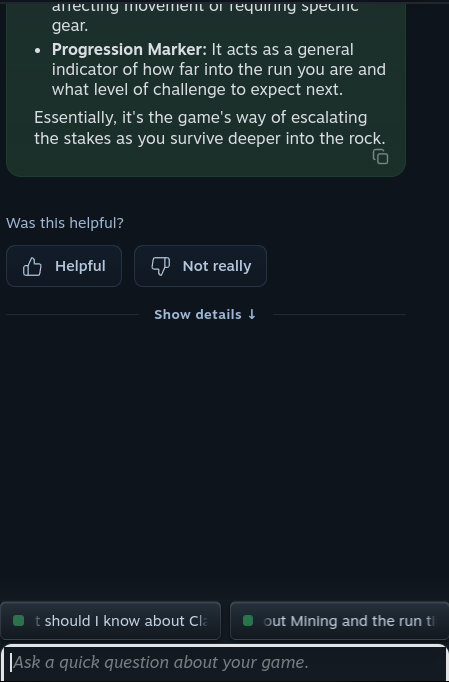
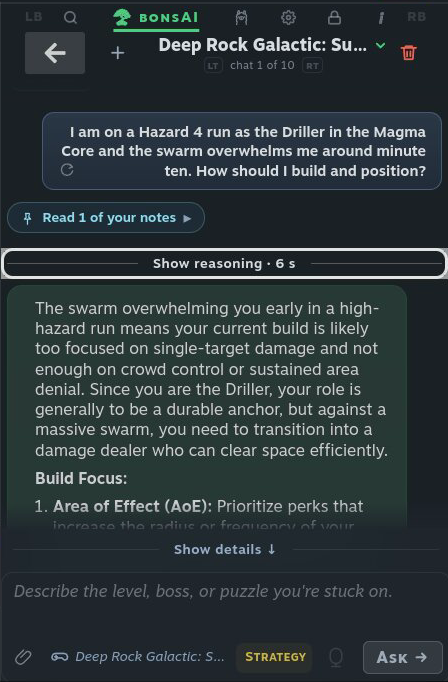
README: one-line feature list, a one-line contents, and a first-run clip for install
The maintainer's README tweaks of 2026-10-25:

- What it does: each fold is one line, the name in bold and a few words in
  italics, set inside <dl><dd> so the list sits 16px in from the headings and
  reads as the section's children. All folds start closed; the caption that
  repeated "filmed in real time" under every clip is cut to the two that differ.
- Contents: scripts/docs_toc.py gains INLINE_DOCS; the README's list is now one
  wrapping line of section links (16 lines became 1). Test added.
- The two top pictures cut off the question box: both were taken while Steam
  had scrolled the panel. top-answer is now a frame from the 2026-10-22 master
  with the whole panel; top-details is a fresh Deck screenshot with details
  open and the question box whole.
- Install: steps 2 and 3 become one "Set up the AI" step around a new clip of
  the first run (beta notice, Where should the AI run?, the PC option, Install
  Ollama, the box that turns on downloads). Filmed on the Deck's own screen with
  Steam's performance overlay off, real time with two pauses cut, the Deck's
  home-network address blurred. The old popup still showed the overlay over its
  title; it and the Ollama-tab still are no longer used and are removed.

verify.py --quick passed.

diff --git a/scripts/docs_toc.py b/scripts/docs_toc.py
@@ -22,6 +22,8 @@ How it works:
     3. `build_toc()` writes one list line per `##` and `###` heading between `TOC_START` and
        `TOC_END`. `apply_toc()` replaces the block if the markers exist, otherwise inserts it
        just before the first `##` heading, so a document's opening lines stay first.
+    4. A document in `INLINE_DOCS` gets one wrapping line of `##` links instead of a list, so
+       the README's front page reaches its first section sooner.
 
 Gotchas:
   - The list goes before the first `##`, never above the title or a document's opening text:
@@ -67,6 +69,12 @@ DOCS = [
     "docs/code-clarity.md",
 ]
 
+# Documents whose contents are one line of `##` links joined by dots: the README's list took 16
+# lines above its first section (the maintainer asked for a tighter one, 2026-10-25).
+INLINE_DOCS = {"README.md"}
+INLINE_TITLE = "**Contents:**"
+INLINE_SEPARATOR = " · "
+
 _HEADING_RE = re.compile(r"^(#{1,6})\s+(.*?)\s*#*\s*$")
 _FENCE_RE = re.compile(r"^\s*(```|~~~)")
 _LINK_RE = re.compile(r"!?\[([^\]]*)\]\([^)]*\)")
@@ -109,9 +117,10 @@ def headings(lines: list[str]) -> list[tuple[int, str]]:
     return found
 
 
-def build_toc(lines: list[str]) -> list[str]:
+def build_toc(lines: list[str], inline: bool = False) -> list[str]:
     seen: dict[str, int] = {}
     entries = []
+    links = []
     for level, text in headings(lines):
         base = slug(text)
         count = seen.get(base, 0)
@@ -122,15 +131,19 @@ def build_toc(lines: list[str]) -> list[str]:
             indent = "  " * (level - 2)
             label = plain_text(text).replace("[", "\\[").replace("]", "\\]")
             entries.append(f"{indent}- [{label}](#{anchor})")
+            if level == 2:
+                links.append(f"[{label}](#{anchor})")
     if not entries:
         return []
+    if inline:
+        return [TOC_START, f"{INLINE_TITLE} " + INLINE_SEPARATOR.join(links), TOC_END]
     return [TOC_START, TOC_TITLE, "", *entries, TOC_END]
 
 
-def apply_toc(text: str) -> str:
+def apply_toc(text: str, inline: bool = False) -> str:
     """The document with its contents list written or refreshed. Unchanged if it has no `##`."""
     lines = text.split("\n")
-    toc = build_toc(lines)
+    toc = build_toc(lines, inline)
     if TOC_START in (line.strip() for line in lines):
         start = next(i for i, line in enumerate(lines) if line.strip() == TOC_START)
         end = next(i for i in range(start, len(lines)) if lines[i].strip() == TOC_END)
@@ -163,7 +176,7 @@ def main(argv: list[str] | None = None) -> int:
         original = path.read_text(encoding="utf-8")
         newline = "\r\n" if "\r\n" in original else "\n"
         text = original.replace("\r\n", "\n")
-        updated = apply_toc(text)
+        updated = apply_toc(text, inline=Path(rel).as_posix() in INLINE_DOCS)
         if updated == text:
             continue
         if args.check:

diff --git a/tests/test_docs_toc.py b/tests/test_docs_toc.py
@@ -70,6 +70,15 @@ class DocsTocTests(unittest.TestCase):
     def test_document_without_sections_is_untouched(self):
         self.assertEqual(docs_toc.apply_toc("# Only a title\n\nText.\n"), "# Only a title\n\nText.\n")
 
+    def test_inline_style_is_one_line_of_sections(self):
+        out = docs_toc.apply_toc(DOC, inline=True)
+        block = out.split(docs_toc.TOC_START)[1].split(docs_toc.TOC_END)[0].strip()
+        self.assertEqual(
+            block, "**Contents:** [Getting started](#getting-started) · [Steps](#steps) · [Steps](#steps-1)"
+        )
+        self.assertEqual(docs_toc.apply_toc(out, inline=True), out)
+        self.assertIn("README.md", docs_toc.INLINE_DOCS)
+
     def test_every_listed_doc_exists(self):
         for rel in docs_toc.DOCS:
             self.assertTrue((ROOT / rel).exists(), rel)

diff --git a/README.md b/README.md
@@ -17,21 +17,7 @@ mid-game, ask how to beat a boss or why the game stutters and keep playing.
 </p>
 
 <!-- toc: written by scripts/docs_toc.py; do not hand-edit -->
-**Contents**
-
-- [Free, open and yours](#free-open-and-yours)
-- [What it does](#what-it-does)
-- [Before you start](#before-you-start)
-- [What you need](#what-you-need)
-- [Install](#install)
-  - [1. Add bonsAI to Decky](#1-add-bonsai-to-decky)
-  - [2. Allow downloads](#2-allow-downloads)
-  - [3. Choose where the AI runs](#3-choose-where-the-ai-runs)
-  - [4. Ask something](#4-ask-something)
-- [Getting help](#getting-help)
-- [Help build it](#help-build-it)
-- [License](#license)
-- [Buy me a beer](#buy-me-a-beer)
+**Contents:** [Free, open and yours](#free-open-and-yours) · [What it does](#what-it-does) · [Before you start](#before-you-start) · [What you need](#what-you-need) · [Install](#install) · [Getting help](#getting-help) · [Help build it](#help-build-it) · [License](#license) · [Buy me a beer](#buy-me-a-beer)
 <!-- /toc -->
 
 ## Free, open and yours
@@ -54,116 +40,101 @@ mid-game, ask how to beat a boss or why the game stutters and keep playing.
 - **Voice input**: the speech engine from **GitHub**, the tools to build it from **Ubuntu's servers**
   and the speech model from **Hugging Face**.
 
-Nothing downloads until you switch on **Internet downloads** on the Permissions tab, and bonsAI
-tells you where each download comes from before it starts. Links inside answers open only when you
+Nothing downloads until you switch on **Internet downloads**, on the Permissions tab or when bonsAI
+asks, and bonsAI tells you where each download comes from before it starts. Links inside answers open only when you
 tap them.
 
 ## What it does
 
-Every clip is filmed on a Steam Deck in real time. Most use an AI running on a PC on
-the home network; the wiki-notes clip uses the AI on the Deck itself.
+Every clip is filmed on a Steam Deck in real time, most with the AI on a PC at home.
 
-<details open>
-<summary><h3>Ask about the game you're playing</h3><br>bonsAI knows which game is running. Ask about a boss, a level or a puzzle.</summary>
+<dl><dd>
+
+<details>
+<summary><b>Ask about your game</b> — <i>it knows which game is running</i></summary>
 <br>
 
-Open the menu mid-game and type, or pick a suggestion chip; the game's name goes in with your
-question. Pick a mode on the question box: **Speed** for a quick reply, **Strategy** for coaching
-like a strategy guide, **Expert** for the most effort and detail. Switch on **Thinking** and you can
-watch the steps while it works. The answer streams in as it's written.
+Ask about a boss, a level or a puzzle, by typing or with a suggestion chip. Pick a mode: **Speed**
+for a quick reply, **Strategy** for coaching, **Expert** for the most detail. Switch on **Thinking**
+to watch the steps.
 
 <!-- VIDEO: upload recordings/readme-cuts/ask-about-your-game-deck-full.mp4. Replace the next line with the link github.com gives when the file is dropped into the editor. -->
 <img src="assets/readme/ask-about-your-game.png" alt="A new chat, the three modes, a question about the level, the thinking steps, the answer streaming in, Show reasoning, a kept note and a branch pick" width="560">
 
-*A new chat, the three modes, a question, the thinking steps, the answer streaming in, Show
-reasoning, a kept note and a branch pick. Filmed in real time, with the AI on a PC on the home
-network.*
-
 </details>
 
 <details>
-<summary><h3>Notes from the game's wiki</h3><br>Answers can use notes from community wikis, 38 games so far, and it works offline.</summary>
+<summary><b>Wiki notes</b> — <i>notes from fan wikis for 38 games, offline</i></summary>
 <br>
 
-The knowledge library is a one-time download. When an answer uses a note, it says where the note
-came from, and you can open the note under the answer.
+The knowledge library is a one-time download. An answer that uses a note says where it came from,
+and you can open the note under the answer.
 
 <img src="assets/readme/wiki-notes.webp" alt="A Speed answer from the AI on the Deck that uses a wiki note, then the note opening under the answer" width="360">
 
-*Filmed in real time, with the AI running on the Deck itself.*
+*With the AI on the Deck itself.*
 
 </details>
 
 <details>
-<summary><h3>Your own notes</h3><br>Tell bonsAI what matters to you and it remembers.</summary>
+<summary><b>Your own notes</b> — <i>tell it what matters and it remembers</i></summary>
 <br>
 
-Say something worth keeping, like "I do not want spoilers for later biomes", and a small card under
-the answer offers to keep it, for this game or for every game. Later answers say **Read 1 of your
-notes**; press that line to see your notes, switch one off or remove it.
+Say something like "no spoilers for later biomes" and a card offers to keep it, for this game or
+every game. Later answers say **Read 1 of your notes**; press it to see, switch off or remove a note.
 
 <!-- VIDEO: upload recordings/readme-cuts/your-notes-deck-full.mp4. Replace the next line with the link github.com gives when the file is dropped into the editor. -->
 <img src="assets/readme/your-notes.png" alt="Keeping a note from a question, a later answer that read it, then the Your notes box" width="560">
 
-*Filmed in real time, with the AI on a PC on the home network.*
-
 </details>
 
 <details>
-<summary><h3>Spoilers stay hidden until you ask</h3><br>In Strategy mode, anything that looks like a spoiler is covered.</summary>
+<summary><b>Spoiler covers</b> — <i>spoilers stay hidden until you open them</i></summary>
 <br>
 
-Press **A** on a cover to open it. This works on a best-effort basis and can miss things.
+In Strategy mode, anything that looks like a spoiler is covered; press **A** to open it. It's
+best-effort and can miss things.
 
 <img src="assets/readme/spoiler.webp" alt="A spoiler in a Strategy answer, covered until it is opened" width="360">
 
-*Filmed in real time, with the AI on a PC on the home network.*
-
 </details>
 
 <details>
-<summary><h3>"Where are you at?"</h3><br>Strategy can ask where you are in the game, then gives you a checklist of steps.</summary>
+<summary><b>Checklists</b> — <i>Strategy asks where you're at, then lists the steps</i></summary>
 <br>
 
-Tick off steps as you go. Your progress is saved on the Deck, for each game.
+Tick off steps as you go. Progress is saved for each game.
 
 <img src="assets/readme/strategy-checklist.webp" alt="Picking where you are in the game, then the checklist of steps arriving" width="360">
 
-*Filmed in real time, with the AI on a PC on the home network.*
-
 </details>
 
 <details>
-<summary><h3>Ask about a screenshot</h3><br>Take a screenshot and ask what's on screen, like a puzzle, a menu or an error message.</summary>
+<summary><b>Screenshots</b> — <i>ask about what's on screen</i></summary>
 <br>
 
-Press the paperclip on the question box and pick **Close menu & take screenshot**. Open the menu
-again, press the paperclip, pick **Attach recent screenshot**, choose the picture and ask. This
-needs a model that can see pictures; the starter model can.
+Press the paperclip and pick **Close menu & take screenshot**. Reopen the menu, press the paperclip
+again and pick **Attach recent screenshot**. This needs a model that can see pictures; the starter
+model can.
 
 <!-- VIDEO: upload recordings/readme-cuts/ask-about-a-screenshot-deck-full.mp4. Replace the next line with the link github.com gives when the file is dropped into the editor. -->
 <img src="assets/readme/ask-about-a-screenshot.png" alt="Taking a screenshot from the paperclip menu and asking what is on screen" width="560">
 
-*Filmed in real time, with the AI on a PC on the home network.*
-
 </details>
 
 <details>
-<summary><h3>Search your chats, settings and notes</h3><br>A Search tab to the left of Main finds things without any AI.</summary>
+<summary><b>Search</b> — <i>chats, notes and Steam settings, no AI needed</i></summary>
 <br>
 
-One find box looks through your chats, the game notes, your own notes and even Steam's own settings. Type
-"brightness" and jump straight to that Steam setting.
+The Search tab sits left of Main. Type "brightness" and jump straight to that Steam setting.
 
 <!-- VIDEO: upload recordings/readme-cuts/search-deck-full.mp4. Replace the next line with the link github.com gives when the file is dropped into the editor. -->
 <img src="assets/readme/search.png" alt="The Search tab: brightness finds a chat and the Steam settings, and opens one" width="560">
 
-*Filmed in real time.*
-
 </details>
 
 <details>
-<summary><h3>Close the menu, keep playing</h3><br>Close the menu while an answer is being written, and a popup tells you when it's ready.</summary>
+<summary><b>Keep playing</b> — <i>close the menu, a popup says when the answer's ready</i></summary>
 <br>
 
 The answer keeps going in the background. The **Reply ready** popup shows its first lines, and the
@@ -172,49 +143,45 @@ full answer waits in the chat.
 <!-- VIDEO: upload recordings/readme-cuts/reply-ready-deck-full.mp4. Replace the next line with the link github.com gives when the file is dropped into the editor. -->
 <img src="assets/readme/reply-ready.png" alt="Closing the menu while bonsAI answers, then the Reply ready popup arriving" width="560">
 
-*Filmed in real time, with the AI on a PC on the home network.*
-
 </details>
 
 <details>
-<summary><h3>Saved chats</h3><br>Keep up to ten chats and flip between them with the triggers.</summary>
+<summary><b>Saved chats</b> — <i>keep ten, flip between them with the triggers</i></summary>
 <br>
 
-At ten, **New chat** asks which chat to delete first, and nothing is deleted without the **Delete
-chat** box. When a chat gets long, bonsAI sums up the older part so it isn't forgotten, and you can
-ask it to sum up at any time.
+At ten, **New chat** asks which one to delete first. Long chats are summed up so the older part
+isn't forgotten.
 
 <!-- VIDEO: upload recordings/readme-cuts/saved-chats-deck-full.mp4. Replace the next line with the link github.com gives when the file is dropped into the editor. -->
 <img src="assets/readme/saved-chats.png" alt="Flipping between saved chats, then New chat asking which chat to delete" width="560">
 
-*Filmed in real time, with the AI on a PC on the home network.*
-
 </details>
 
 <details>
-<summary><h3>Talk instead of typing</h3><br>Press the mic button and talk. Your speech becomes text on the Deck itself.</summary>
+<summary><b>Talk instead of typing</b> — <i>speech becomes text on the Deck itself</i></summary>
 <br>
 
-Words appear as you talk. When you stop, bonsAI reads the whole recording once more and tidies the
-text, which takes a couple of seconds. The recording is deleted as soon as that's done.
+Words appear as you talk. When you stop, bonsAI tidies the text in a couple of seconds, then
+deletes the recording.
 
 <img src="assets/readme/talk.webp" alt="Pressing the mic button, the first word appearing, then the tidied text after Stop" width="360">
 
-*Filmed in real time, with a computer voice played into the Deck.*
+*With a computer voice played into the Deck.*
 
 </details>
 
 <details>
-<summary><h3>See how it answered</h3><br>Show details under any answer shows which model wrote it and which notes it used.</summary>
+<summary><b>Show details</b> — <i>which model answered and which notes it used</i></summary>
 <br>
 
-The **Session** tab inside it holds the chat's history and the **Sum up this chat** button.
+Press **Show details** under any answer. Its **Session** tab holds the chat's history and **Sum up
+this chat**.
 
 <img src="assets/readme/show-details.webp" alt="Opening Show details under an answer, then the Session tab" width="360">
 
-*Filmed in real time, with the AI on a PC on the home network.*
-
 </details>
+
+</dd></dl>
 
 There's more: characters that change the tone of replies and a choice of AI models. The
 **[user guide](docs/guide.md)** covers everything.
@@ -253,31 +220,24 @@ model. You install it from this page instead. It takes a few minutes.
 
 4. bonsAI now shows in the Decky list. Open it.
 
-### 2. Allow downloads
+### 2. Set up the AI
 
-Open the **Permissions** tab and switch on **Internet downloads**. Everything is off on a fresh
-install, so nothing downloads without your say-so.
+The first time bonsAI opens, two popups walk you through it:
 
-### 3. Choose where the AI runs
+<img src="assets/readme/first-run.webp" alt="The first time bonsAI opens: the beta notice, the Where should the AI run? popup with its PC option, then Install Ollama and the box that turns on downloads for the starter models" width="600">
 
-<img src="assets/readme/where-ai-runs.png" alt="The Where AI runs section of the Ollama tab" width="300">
-<img src="assets/readme/where-ai-runs-popup.png" alt="The first-run popup: Where should the AI run? with the Run AI on this Deck switch, Install Ollama and Not now" width="560">
+*Filmed in real time on a Steam Deck, with two pauses cut out.*
 
-The first time bonsAI opens, right after the beta notice, a popup titled **Where should the AI
-run?** asks this for you. **Run AI on this Deck** starts switched on. Pick **Install Ollama** to set
-it up on the Deck, or switch it off and type your PC's address instead. **Not now** closes the popup
-and changes nothing. You can do the same later on the **Ollama** tab:
+- **AI on the Deck** (works anywhere, slower in games): press **Install Ollama**, then **Turn on
+  and download**. That gets Ollama and the starter models, about 4.6 GB.
+- **AI on a PC at home** (much faster): install [Ollama](https://ollama.com/download) on the PC
+  first. In the popup, switch off **Run AI on this Deck**, type the PC's address (like
+  `192.168.1.20`) and press **Test connection**. The [guide](docs/guide.md#running-the-ai-on-a-pc)
+  shows how to let the PC accept the connection.
 
-- **On the Deck** (works anywhere, slower in games): make sure **Run AI on this Deck** is on, then
-  press **Install Ollama**. When it asks whether to add the starter set too, say yes. It brings the
-  answer model (gemma4:e2b-it-qat), the note-search model (nomic-embed-text) and the speech models
-  tiny.en and base.en, about 4.6 GB in all.
-- **On a PC on your home network** (much faster): install [Ollama](https://ollama.com/download) on
-  the PC and download a model there. Then type the PC's address into **PC address** on the Deck,
-  something like `192.168.1.20` (bonsAI adds Ollama's usual port), and press **Test connection**. The
-  [guide](docs/guide.md#running-the-ai-on-a-pc) shows how to let the PC accept the connection.
+Pressed **Not now**? The same choices are on the **Ollama** tab.
 
-### 4. Ask something
+### 3. Ask something
 
 Open the **Main** tab, pick a suggestion chip or type a question and press **Ask**.
 
